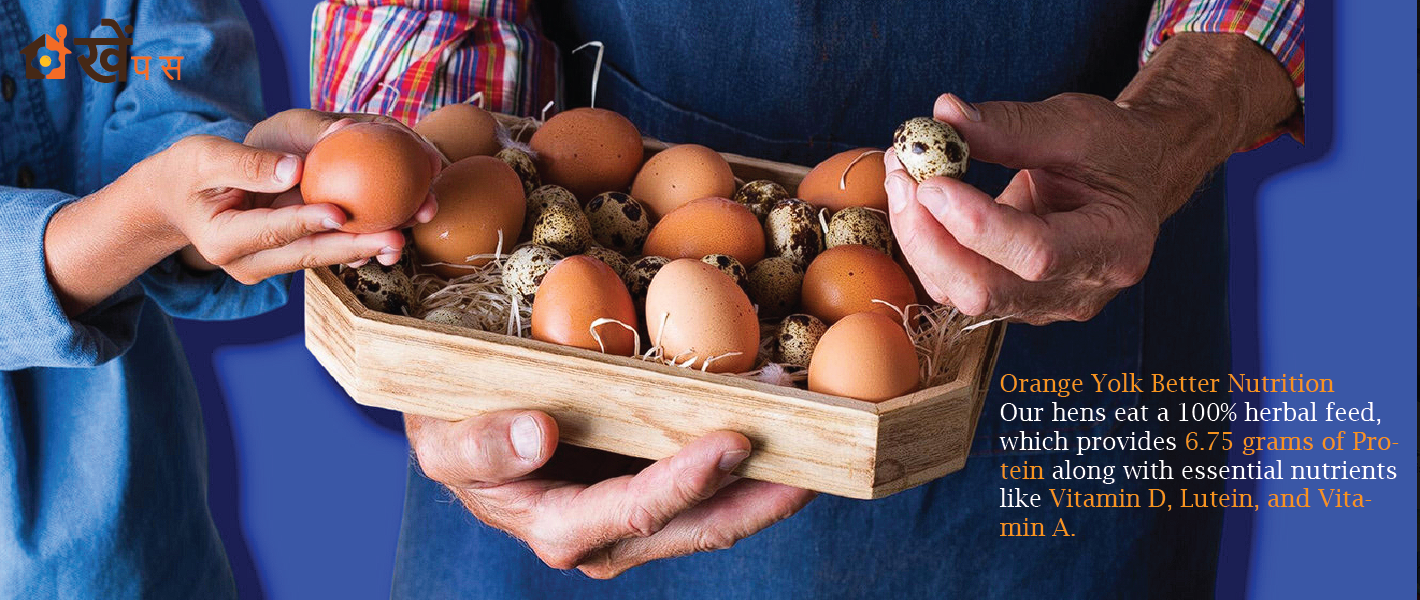
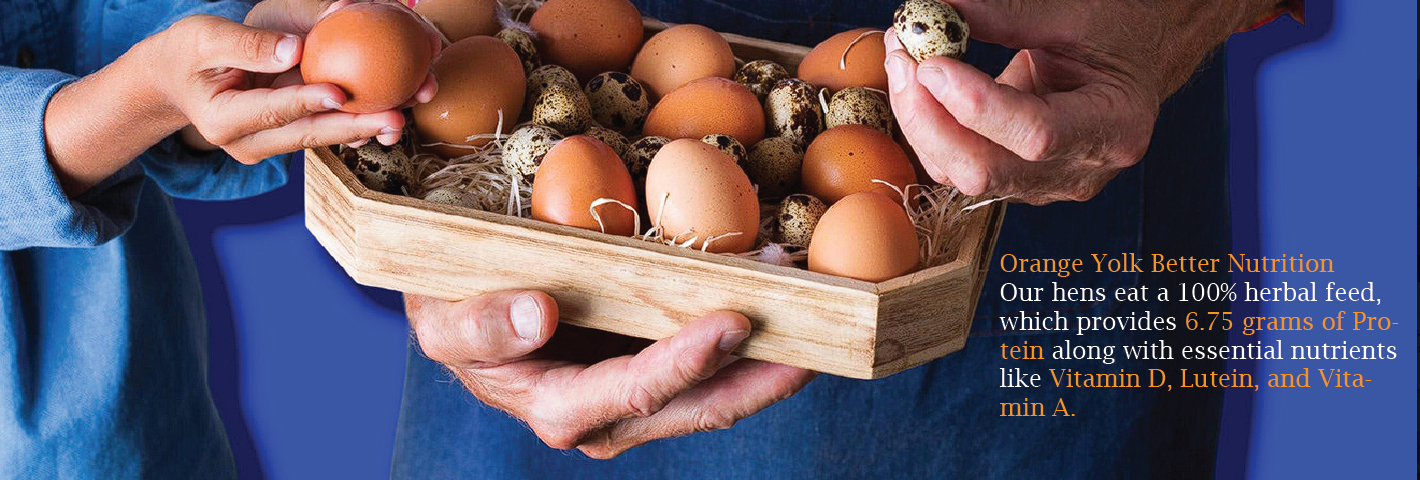
feat:payment api and glide

diff --git a/assets/styles.css b/assets/styles.css
@@ -343,72 +343,68 @@ body.auth.regis::before {
 
 /*about*/
 .egg-page-wrapper {
-    max-width: 800px;
+    max-width: 1000px;
     margin: 0 auto;
-    padding: 20px;
+    padding: 40px;
     font-family: Arial, sans-serif;
 }
 
 .egg-page-header {
     text-align: center;
-    margin-bottom: 20px;
+    margin-bottom: 30px;
 }
 
 .egg-page-title {
-    font-size: 18px;
+    font-size: 26px;
     font-weight: bold;
-    margin-bottom: 15px;
+    margin-bottom: 20px;
     text-align: center;
 }
 
 .egg-page-intro {
-    font-size: 14px;
-    line-height: 1.5;
-    margin-bottom: 25px;
+    font-size: 18px;
+    line-height: 1.8;
+    margin-bottom: 35px;
     text-align: center;
 }
 
 .egg-process-title {
-    font-size: 16px;
+    font-size: 22px;
     font-weight: bold;
-    margin: 20px 0;
+    margin: 30px 0;
     text-align: center;
 }
 
 .egg-process-container {
     background-color: #FF7F27;
-    border-radius: 15px;
-    padding: 20px;
-    margin-bottom: 30px;
+    border-radius: 20px;
+    padding: 30px;
+    margin-bottom: 40px;
 }
 
 .egg-process-step {
     background-color: #FFC184;
-    border-radius: 10px;
-    padding: 15px;
-    margin-bottom: 15px;
+    border-radius: 15px;
+    padding: 20px;
+    margin-bottom: 20px;
     display: flex;
     align-items: center;
 }
 
-.egg-process-step:last-child {
-    margin-bottom: 0;
-}
-
 .egg-step-icon {
-    width: 80px;
-    height: 80px;
+    width: 100px;
+    height: 100px;
     background-color: #fff;
-    border-radius: 10px;
-    margin-right: 15px;
+    border-radius: 15px;
+    margin-right: 20px;
     display: flex;
     justify-content: center;
     align-items: center;
 }
 
 .egg-step-icon img {
-    max-width: 60px;
-    max-height: 60px;
+    max-width: 70px;
+    max-height: 70px;
 }
 
 .egg-step-content {
@@ -416,33 +412,33 @@ body.auth.regis::before {
 }
 
 .egg-step-title {
+    font-size: 20px;
     font-weight: bold;
     color: #8B4513;
-    margin-bottom: 5px;
-    font-size: 16px;
+    margin-bottom: 10px;
 }
 
 .egg-step-description {
-    font-size: 14px;
-    line-height: 1.4;
+    font-size: 16px;
+    line-height: 1.6;
 }
 
 .egg-fun-title {
-    font-size: 16px;
+    font-size: 22px;
     font-weight: bold;
-    margin: 30px 0 20px;
+    margin: 40px 0 25px;
     text-align: center;
 }
 
 .egg-birds-gallery {
     display: grid;
     grid-template-columns: repeat(3, 1fr);
-    gap: 15px;
+    gap: 20px;
 }
 
 .egg-bird-img {
     width: 100%;
-    border-radius: 8px;
+    border-radius: 10px;
     aspect-ratio: 1/1;
     object-fit: cover;
 }
@@ -454,7 +450,19 @@ body.auth.regis::before {
 
 .egg-hindi-text {
     font-style: italic;
+    font-size: 16px;
 }
+
+/* Contact Us */
+.contact-container {
+    display: flex;
+    flex-wrap: wrap;
+    gap: 25px;
+    padding: 50px;
+    max-width: 1200px;
+    margin: 0 auto;
+}
+
     /*//contactus*/
 .contact-container {
     display: flex;
@@ -500,42 +508,17 @@ iframe {
 
 /*//listbook*/
 /* Hero Section */
-.hero {
-    background-image: url('/assets/hero-background.jpg');
-    background-size: cover;
-    background-position: center;
-    text-align: center;
-    padding: 100px 20px;
-    color: white;
-    position: relative;
+.glide {
+    overflow: hidden;
 }
 
-.hero:after {
-    content: '';
-    position: absolute;
-    top: 0;
-    left: 0;
-    right: 0;
-    bottom: 0;
-    background-color: rgba(0, 0, 0, 0.5);
-    z-index: 1;
+.glide__slide img {
+    width: 100%;
+    object-fit: cover; /* Keeps the image nicely filled without stretching */
 }
-
-.hero-content {
-    position: relative;
-    z-index: 2;
+.glide--swipeable {
+    height: 600px;
 }
-
-.hero h1 {
-    font-size: 36px;
-    margin-bottom: 20px;
-}
-
-.hero p {
-    font-size: 18px;
-    margin-bottom: 30px;
-}
-
 .search-bar {
     display: flex;
     justify-content: center;

diff --git a/src/controller/customer/CheckoutController.php b/src/controller/customer/CheckoutController.php
@@ -69,12 +69,64 @@ class CheckoutController extends BaseController
                 $_SESSION['cart'] = [];
             }
 
-            $this->redirect("payments");
+            $this->callKhalti();
 
         } catch (Exception $e) {
             error_log($e->getMessage());
             $this->redirect("500");
         }
+    }
+
+
+    public function callKhalti(): void
+    {
+        $curl = curl_init();
+
+        curl_setopt_array($curl, array(
+            CURLOPT_URL => 'https://dev.khalti.com/api/v2/epayment/initiate/',
+            CURLOPT_RETURNTRANSFER => true,
+            CURLOPT_ENCODING => '',
+            CURLOPT_MAXREDIRS => 10,
+            CURLOPT_TIMEOUT => 0,
+            CURLOPT_FOLLOWLOCATION => true,
+            CURLOPT_HTTP_VERSION => CURL_HTTP_VERSION_1_1,
+            CURLOPT_CUSTOMREQUEST => 'POST',
+            CURLOPT_POSTFIELDS => '{
+    "return_url": "http://127.0.0.1:9900/",
+    "website_url": "http://127.0.0.1:9900/",
+    "amount": 1300,
+    "purchase_order_id": "test12",
+    "purchase_order_name": "test",
+    "customer_info": {
+        "name": "Khalti Bahadur",
+        "email": "example@gmail.com",
+        "phone": "9800000123"
+    },
+    "product_details": [
+        {
+            "identity": "12313",
+            "name": "Khalti logo",
+            "total_price": 1300,
+            "quantity": 1,
+            "unit_price": 1300
+        }
+    ],
+    "merchant_username": "merchant_name",
+    "merchant_extra": "merchant_extra"
+}',
+            CURLOPT_HTTPHEADER => array(
+                'Authorization: Key 859abd9677844443beea1cde201adaa7',
+                'Content-Type: application/json',
+            ),
+        ));
+
+        $response = curl_exec($curl);
+
+        $responseArray = json_decode($response,true);
+
+        header("Location: ".$responseArray["payment_url"]);
+
+        curl_close($curl);
     }
 
     public function updateProductInventory(array $products, float|int $grandTotal): void

diff --git a/src/controller/customer/CartController.php b/src/controller/customer/CartController.php
@@ -59,14 +59,21 @@ class CartController extends BaseController
             $grandTotal = 0;
 
             if (!isset($_SESSION['cart'])) {
+
+
                 $params = [
                     "cartDetails" => $cartDetails,
-                    "grandTotal" => $grandTotal
+                    "grandTotal" => $grandTotal,
                 ];
+
+
+
+
 
                 $this->render('product/customer/cart_detail', $params);
                 return;
             }
+
 
             $cart = $_SESSION['cart'];
             foreach ($cart as $productDetailId => $quantity) {
